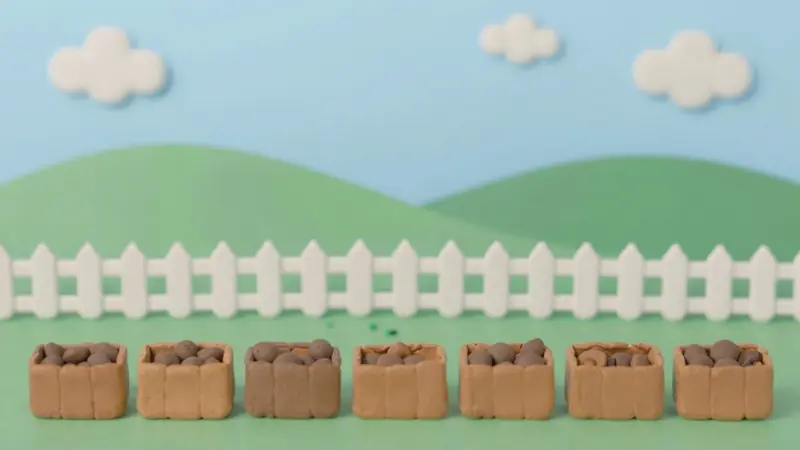
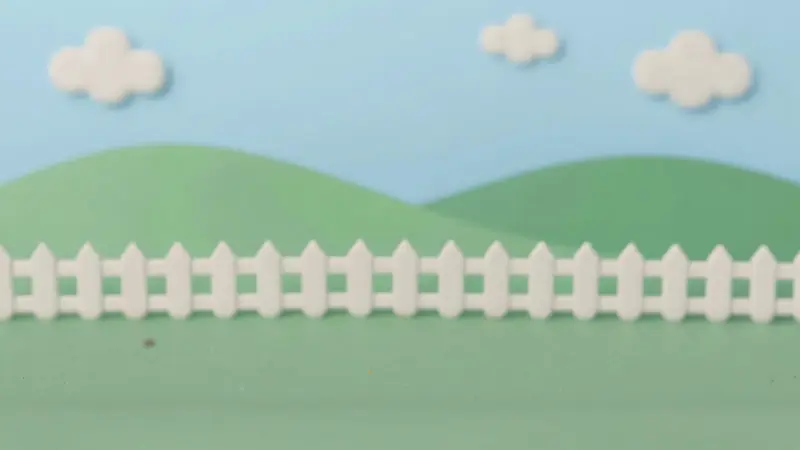
Quick looks: bedless garden scene and painted bed

Changed region(s): [[0.0312, 0.7156, 1.0, 0.9644]]

diff --git a/scripts/quick-looks-art.py b/scripts/quick-looks-art.py
@@ -7,6 +7,7 @@ ladybird in a yellow scarf). Runs on a computer that can reach ComfyUI on Tailsc
   python3 scripts/quick-looks-art.py paint OUT_DIR [names] [--tries 3]   # OUT_DIR/q/<name>-<try>.png
   python3 scripts/quick-looks-art.py list
   python3 scripts/quick-looks-art.py scene7 OUT_DIR OUT_DIR/q/garden-scene-1.png   # seven beds, from a painted try
+  python3 scripts/quick-looks-art.py bedless OUT_DIR    # the picked scene with its beds taken away (the game draws them)
   ~/.cache/rembg-venv/bin/python scripts/quick-looks-art.py tidy PICKS.json OUT_DIR   # {name: try or "other-name-try"} -> src/subitising/art/
 
 Same graph and seeds as scripts/weka-art.py (Z-Image Turbo, 8 steps, 1.5x second pass). Positive wording only, and no
@@ -109,6 +110,12 @@ PICTURES: dict[str, tuple[str, tuple[int, int]]] = {
         (1088, 608)),
     **{f'plant-{s}-{k}': (plant_words(s, k), weka.SQUARE) for s in PLANTS for k in range(5)},
     'seed': (plant_words(0, 0), weka.SQUARE),
+    # The game draws a bed under each plant itself (it lays the plants out in its own row), so the scene has none.
+    'bed': ('One small empty raised garden bed made of clay, a chunky box shape about twice as wide as it is tall with deep sides, '
+            'seen straight on from the front and slightly above, its long front side facing the viewer flat and level, '
+            'the front made of smooth light tan clay wooden planks running across, a flat even top of dark brown clay soil '
+            'showing just above the front edge, nothing growing in it.'
+            + SPRITE, (1216, 832)),
     'friend-happy': (LADYBIRD + 'cheering with both arms up high, a big open happy smile, tiny sparkles around, the whole ladybird.' + SPRITE, weka.SQUARE),
     'friend-calm': (LADYBIRD + 'standing calmly with a gentle kind encouraging smile, one arm raised in a small friendly wave, the whole ladybird.' + SPRITE, weka.SQUARE),
 }
@@ -149,6 +156,41 @@ def scene7(out: Path, base: Path, tries: int):
         cv.run(out / 'q' / f'garden-scene7-{n}.png', words, PICTURES['garden-scene'][1], init, 0.55 + 0.05 * (n - 1))
 
 
+def bedless(out: Path, tries: int):
+    """The current garden-scene.webp with its beds taken away: the grass below the fence is refilled row by row from its
+    plain edges, painted over lightly (image to image), and only that bottom part kept, so the sky, hills and fence stay
+    exactly the same -> OUT_DIR/q/garden-bedless-<n>.png (1600x900)."""
+    import numpy as np
+    from PIL import Image, ImageFilter
+    spec = importlib.util.spec_from_file_location('cv_art', ROOT / 'scripts' / 'clans-village-art.py')
+    cv = importlib.util.module_from_spec(spec)
+    spec.loader.exec_module(cv)
+    src = Image.open(ART / 'garden-scene.webp').convert('RGB')
+    w, h = src.size
+    px = np.asarray(src).astype(float)
+    y0 = int(0.735 * h)
+    edge = np.concatenate([px[:, :40], px[:, -40:]], axis=1)
+    fill = px.copy()
+    rng = np.random.default_rng(7)
+    for y in range(y0, h):
+        fill[y, :] = np.median(edge[y], axis=0) + rng.normal(0, 2.5, (w, 3))
+    filled = Image.fromarray(fill.clip(0, 255).astype('uint8'))
+    init = out / 'garden-bedless-init.png'
+    filled.filter(ImageFilter.GaussianBlur(1.5)).save(init)
+    words = STYLE + PICTURES['garden-scene'][0].split(', and along the bottom third')[0] + (
+        ', and along the bottom third a wide open stretch of smooth plain clay grass. Wide landscape background for a '
+        "children's game, calm and uncluttered." + AGE)
+    mask = Image.new('L', (w, h), 0)
+    m = np.zeros((h, w), dtype='uint8')
+    m[y0 - 30:] = 255
+    mask = Image.fromarray(m).filter(ImageFilter.GaussianBlur(14))
+    for n in range(1, tries + 1):
+        raw = out / 'q' / f'garden-bedless-raw-{n}.png'
+        cv.run(raw, words, (1088, 608), init, 0.28 + 0.07 * (n - 1))
+        painted = Image.open(raw).convert('RGB').resize((w, h), Image.LANCZOS)
+        Image.composite(painted, src, mask).save(out / 'q' / f'garden-bedless-{n}.png')
+
+
 def tidy(picks_file: Path, inbox: Path):
     import numpy as np
     from PIL import Image
@@ -184,6 +226,13 @@ def tidy(picks_file: Path, inbox: Path):
         a = np.asarray(c)[..., 3] > 40
         ys, xs = np.where(a)
         top, bottom = ys.min(), ys.max()
+        if name == 'bed':
+            # Trimmed tight and 512 wide, so the game can stretch it under a plant.
+            box = c.crop((xs.min(), top, xs.max() + 1, bottom + 1))
+            box = box.resize((512, round(box.height * 512 / box.width)), Image.LANCZOS)
+            save(box, name, 512, 84)
+            save(box, f'{name}-small', 256, 82)
+            continue
         if name.startswith('plant-'):
             # The mound: the widest row in the bottom eighth of the cut-out. Every mound ends up 300 px wide, its foot at
             # y 500, centred; a plant too tall for that is shrunk to fit (only the trees).
@@ -217,6 +266,8 @@ if __name__ == '__main__':
         paint(Path(a[1]).expanduser(), a[2:] or list(PICTURES), tries)
     elif a[:1] == ['scene7'] and len(a) == 3:
         scene7(Path(a[1]).expanduser(), Path(a[2]).expanduser(), 3)
+    elif a[:1] == ['bedless'] and len(a) == 2:
+        bedless(Path(a[1]).expanduser(), 3)
     elif a[:1] == ['tidy'] and len(a) == 3:
         tidy(Path(a[1]).expanduser(), Path(a[2]).expanduser())
     else:
